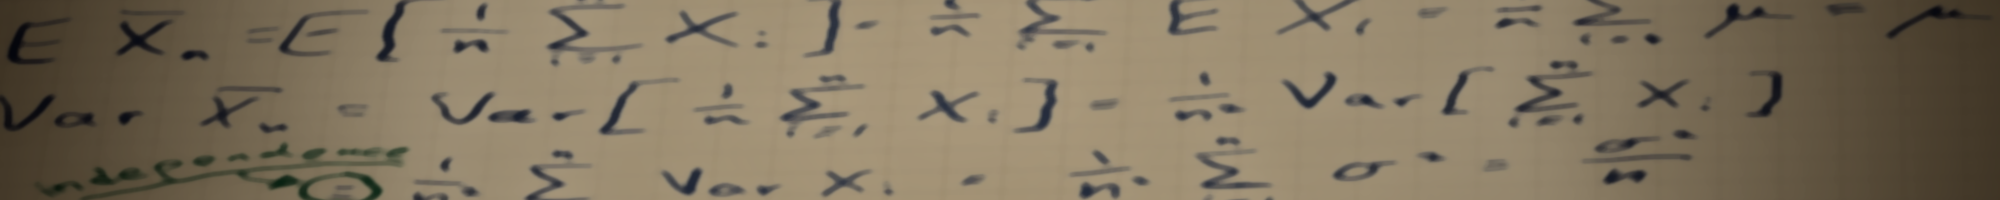
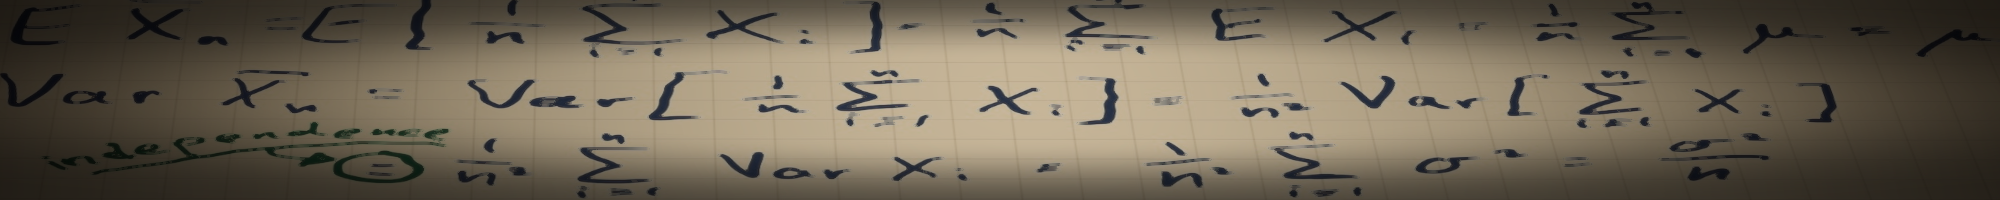
Built site for gh-pages

diff --git a/index.html b/index.html
@@ -72,7 +72,7 @@ ul.task-list li input[type="checkbox"] {
 <style>
 
       .quarto-title-block .quarto-title-banner {
-        background-image: url(img/Bands.png);
+        background-image: url(img/WebsiteBannerDark2.png);
 background-size: cover;
       }
 </style>

diff --git a/research.html b/research.html
@@ -72,7 +72,7 @@ ul.task-list li input[type="checkbox"] {
 <style>
 
       .quarto-title-block .quarto-title-banner {
-        background-image: url(img/Trends.png);
+        background-image: url(img/BannerCoint2.png);
 background-size: cover;
       }
 </style>

diff --git a/about.html b/about.html
@@ -71,7 +71,7 @@ ul.task-list li input[type="checkbox"] {
 <style>
 
       .quarto-title-block .quarto-title-banner {
-        background-image: url(img/VaR.png);
+        background-image: url(img/BannerVaR2.png);
 background-size: cover;
       }
 </style>
